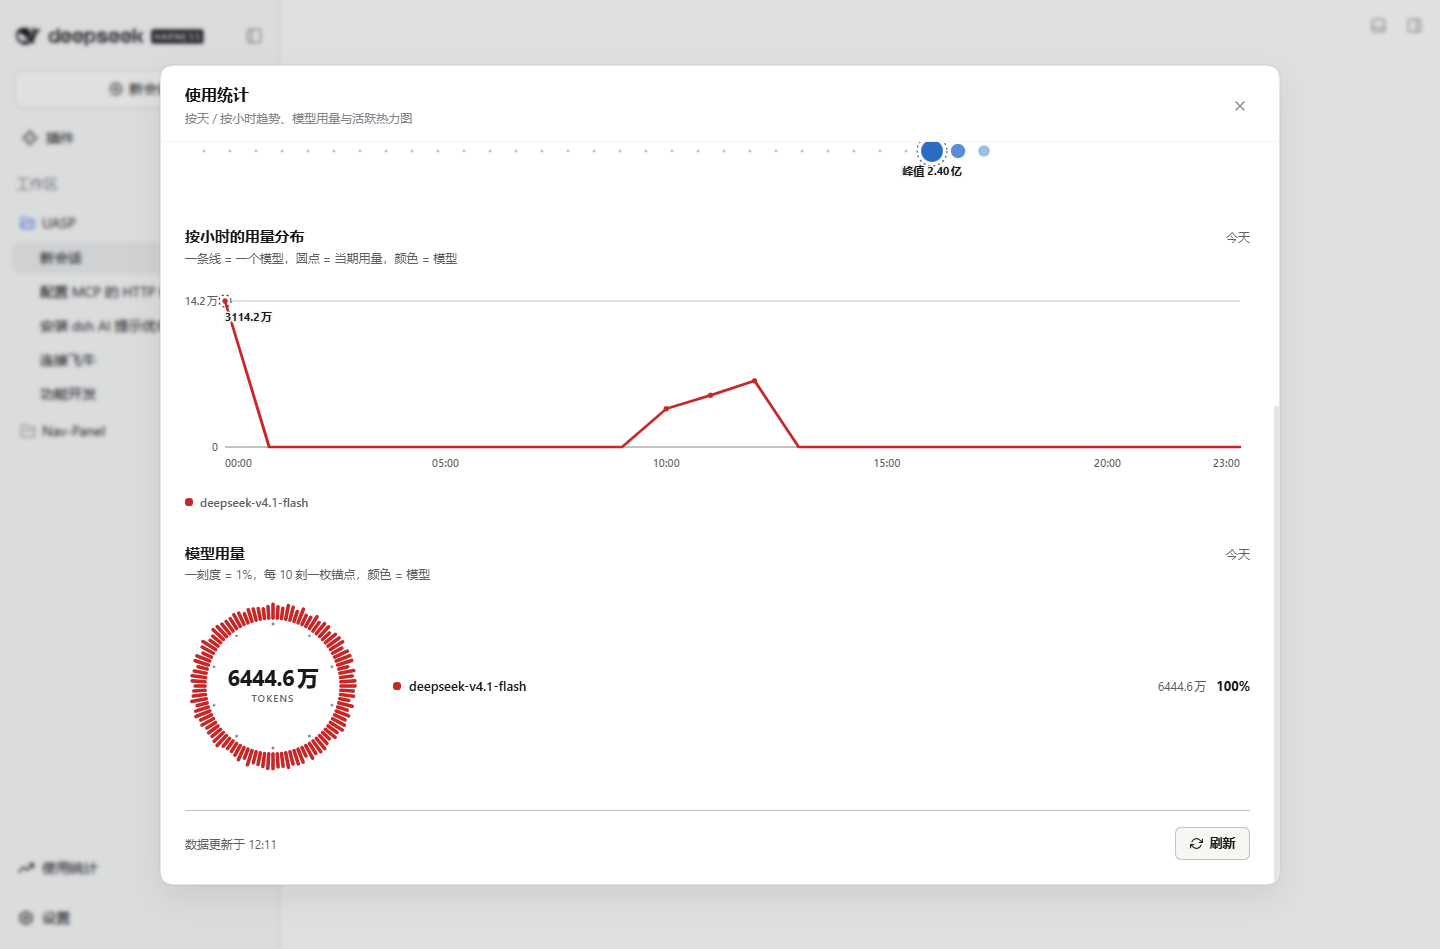
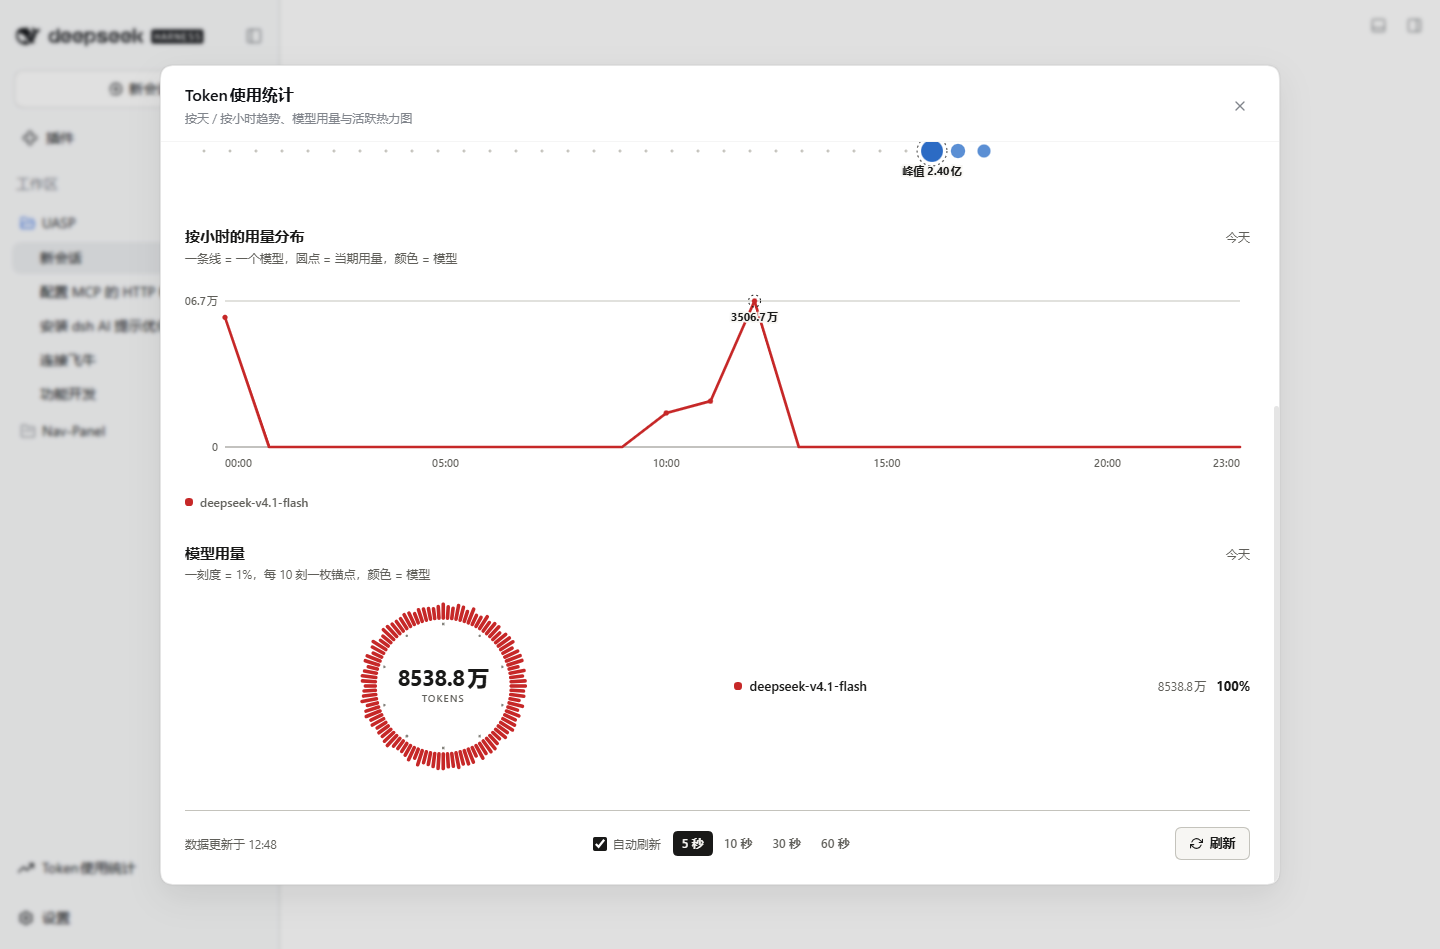
feat: 自动刷新、饼图明细各半、入口对齐用户菜单并改名

diff --git a/lib/client.js b/lib/client.js
@@ -1,4 +1,4 @@
-// dsh-token-panel —— 使用统计(客户端)
+// dsh-token-panel —— Token使用统计(客户端)
 // 排版：固定 px 字阶、WCAG 对比度达标、4 的倍数间距阶梯
 // 图表：日历点阵 / 发丝折线 / 刻度环，配色与排版自研
 // 关键：按实测容器宽度 1:1 出图，不做 viewBox 缩放（缩放会让小字号变成看不见）
@@ -320,10 +320,10 @@ body[data-ds-dark-theme] .ust-tab.active { background: var(--ink); color: #19191
 .ust-legend-dot { width: 8px; height: 8px; border-radius: 50%; flex: none; }
 
 /* ── 环形图 ─────────────────────────────────────────────── */
-/* 圆环与模型列表水平并排；容器过窄时自动换行回上下堆叠 */
+/* 圆环与模型明细各占一半；容器过窄时自动换行回上下堆叠 */
 .ust-donut-wrap { display: flex; flex-direction: row; flex-wrap: wrap; align-items: center; gap: 24px 32px; }
-.ust-donut-wrap > .ust-donut { margin: 0; }
-.ust-donut-wrap > .ust-models { flex: 1 1 320px; min-width: 240px; }
+.ust-donut-wrap > .ust-donut { flex: 1 1 0; margin: 0 auto; }
+.ust-donut-wrap > .ust-models { flex: 1 1 0; min-width: 0; }
 .ust-donut { position: relative; width: 168px; height: 168px; margin: 4px auto 0; flex: none; }
 .ust-donut svg { display: block; width: 100%; height: 100%; overflow: visible; }
 .ust-donut-center {
@@ -341,6 +341,12 @@ body[data-ds-dark-theme] .ust-tab.active { background: var(--ink); color: #19191
 
 /* ── 底部：页脚 + 按钮 ─────────────────────────────────── */
 .ust-footer {
+/* 底部自动刷新控件 */
+.ust-auto { display: flex; align-items: center; gap: 12px; flex-wrap: wrap; }
+.ust-autoToggle { display: inline-flex; align-items: center; gap: 6px; font-size: 12px; color: var(--muted); cursor: pointer; user-select: none; }
+.ust-autoCheck { width: 14px; height: 14px; margin: 0; accent-color: var(--ink); cursor: pointer; }
+.ust-autoSeg { display: flex; align-items: center; gap: 2px; }
+.ust-autoSeg .ust-tab { font-size: 12px; }
 	display: flex; align-items: center; justify-content: space-between; gap: 16px;
 	margin-top: 4px; padding-top: 16px; border-top: 1px solid var(--rule);
 }
@@ -428,8 +434,8 @@ body[data-ds-dark-theme] .ust-date::-webkit-calendar-picker-indicator { filter: 
 
 		// ---------- 弹窗样式（对齐 dsh-token-usage 的展示方式） ----------
 		const MODAL_CSS = `
-/* 侧边栏入口：对齐左下角「设置」菜单行的形态（整行 260x42 / 圆角 12 / 14px / gap 8） */
-.ust-fab{position:relative;display:flex;margin:4px -2px}
+/* 侧边栏入口：与左下角用户菜单同宽同高（铺满 footerActions 行） */
+.ust-fab{position:relative;display:flex;flex:1 1 100%;min-width:0;margin:4px -2px}
 .ust-fabBtn{min-width:0;width:100%;height:42px;box-sizing:border-box;color:var(--dsw-alias-label-primary,#0f1115);cursor:pointer;background:transparent;border:0;border-radius:12px;padding:0 10px 0 8px;font:inherit;font-size:14px;line-height:22px;display:flex;align-items:center;gap:8px;transition:color .15s ease,background-color .15s ease}
 .ust-fabBtn:hover,.ust-fabBtn:focus-visible{background:var(--dsw-alias-interactive-bg-hover,rgba(0,0,0,.05))}
 .ust-fabBtn--rail{width:42px;height:42px;padding:0;justify-content:center;margin:0 auto}
@@ -533,6 +539,8 @@ body[data-ds-dark-theme] .ust-date::-webkit-calendar-picker-indicator { filter: 
 		// 日历点阵：一格一天，点面积 = 当天用量（sqrt 换算，面积才与数值成正比）
 		// 只保留「每日」一种展示：一格一天
 		const WD = ["日", "一", "二", "三", "四", "五", "六"];
+		// 自动刷新可选的间隔（秒）
+		const AUTO_OPTIONS = [5, 10, 30, 60];
 
 		function Heatmap({ days, window: wnd }) {
 			const [boxRef, boxW] = useMeasure();
@@ -972,6 +980,9 @@ body[data-ds-dark-theme] .ust-date::-webkit-calendar-picker-indicator { filter: 
 			const [showCustom, setShowCustom] = react.useState(false);
 			const [from, setFrom] = react.useState("");
 			const [to, setTo] = react.useState("");
+			// 自动刷新：默认开启，默认 5 秒
+			const [autoRefresh, setAutoRefresh] = react.useState(true);
+			const [autoEvery, setAutoEvery] = react.useState(5);
 
 			const load = react.useCallback(async (force) => {
 				setLoading(true);
@@ -989,6 +1000,13 @@ body[data-ds-dark-theme] .ust-date::-webkit-calendar-picker-indicator { filter: 
 			}, []);
 
 			react.useEffect(() => { load(false); }, [load]);
+
+			// 自动刷新：定时重新拉取（不强制重扫，走服务端 SWR 缓存）
+			react.useEffect(() => {
+				if (!autoRefresh) return;
+				const id = setInterval(() => { load(false); }, Math.max(1, autoEvery) * 1000);
+				return () => clearInterval(id);
+			}, [autoRefresh, autoEvery, load]);
 
 			const days = (data && data.days) || [];
 			const hasData = days.length > 0;
@@ -1029,7 +1047,7 @@ body[data-ds-dark-theme] .ust-date::-webkit-calendar-picker-indicator { filter: 
 			return element("div", { className: "ust-root" },
 				element(SummaryMetrics, { summary: data.summary }),
 				element("div", { className: "ust-header" },
-					element("h1", { className: "ust-page-title" }, "使用统计"),
+					element("h1", { className: "ust-page-title" }, "Token使用统计"),
 					element("div", { className: "ust-rangebox" },
 						element("div", { className: "ust-tabs", role: "tablist" },
 							RANGES.map((r) => element("span", {
@@ -1078,6 +1096,24 @@ body[data-ds-dark-theme] .ust-date::-webkit-calendar-picker-indicator { filter: 
 					element("div", { className: "ust-meta" },
 						loading ? "正在重新扫描全部会话…" : (data.generatedAt ? "数据更新于 " + fmtClock(data.generatedAt) : ""),
 					),
+					element("div", { className: "ust-auto" },
+						element("label", { className: "ust-autoToggle", title: "开启后按所选间隔自动刷新数据" },
+							element("input", {
+								type: "checkbox",
+								className: "ust-autoCheck",
+								checked: autoRefresh,
+								onChange: (e) => setAutoRefresh(e.target.checked),
+							}),
+							element("span", null, "自动刷新"),
+						),
+						autoRefresh ? element("div", { className: "ust-autoSeg", role: "tablist", "aria-label": "自动刷新间隔" },
+							AUTO_OPTIONS.map((sec) => element("span", {
+								key: sec, role: "tab", "aria-selected": autoEvery === sec,
+								className: "ust-tab" + (autoEvery === sec ? " active" : ""),
+								onClick: () => setAutoEvery(sec),
+							}, sec + " 秒")),
+						) : null,
+					),
 					element("button", {
 						className: "ust-btn", disabled: loading, onClick: () => load(true),
 						title: "重新扫描本机全部会话记录",
@@ -1104,10 +1140,10 @@ body[data-ds-dark-theme] .ust-date::-webkit-calendar-picker-indicator { filter: 
 			}, [close]);
 			return element("div", { className: "ust-overlay" + (closing ? " is-closing" : "") },
 				element("div", { className: "ust-mask", "aria-hidden": "true", onClick: close }),
-				element("div", { className: "ust-panel", role: "dialog", "aria-modal": "true", "aria-label": "使用统计" },
+				element("div", { className: "ust-panel", role: "dialog", "aria-modal": "true", "aria-label": "Token使用统计" },
 					element("div", { className: "ust-panelHead" },
 						element("div", { className: "ust-panelTitleBox" },
-							element("h2", { className: "ust-panelTitle" }, "使用统计"),
+							element("h2", { className: "ust-panelTitle" }, "Token使用统计"),
 							element("p", { className: "ust-panelSub" }, "按天 / 按小时趋势、模型用量与活跃热力图"),
 						),
 						element("button", { type: "button", className: "ust-closeBtn", "aria-label": "关闭", title: "关闭", onClick: close }, element(IconClose)),
@@ -1127,12 +1163,12 @@ body[data-ds-dark-theme] .ust-date::-webkit-calendar-picker-indicator { filter: 
 					className: "ust-fabBtn" + (wide ? "" : " ust-fabBtn--rail"),
 					"aria-haspopup": "dialog",
 					"aria-expanded": open,
-					"aria-label": "使用统计",
-					title: "使用统计",
+					"aria-label": "Token使用统计",
+					title: "Token使用统计",
 					onClick: () => setOpen(true),
 				},
 					element("span", { className: "ust-fabIco" }, element(IconTrend)),
-					wide ? element("span", { className: "ust-fabLabel" }, "使用统计") : null,
+					wide ? element("span", { className: "ust-fabLabel" }, "Token使用统计") : null,
 				),
 				open ? element(UsageStatsModal, { onClose: () => setOpen(false) }) : null,
 			);

diff --git a/build/body.js b/build/body.js
@@ -1,4 +1,4 @@
-// dsh-token-panel —— 使用统计(客户端)
+// dsh-token-panel —— Token使用统计(客户端)
 // 排版：固定 px 字阶、WCAG 对比度达标、4 的倍数间距阶梯
 // 图表：日历点阵 / 发丝折线 / 刻度环，配色与排版自研
 // 关键：按实测容器宽度 1:1 出图，不做 viewBox 缩放（缩放会让小字号变成看不见）
@@ -151,8 +151,8 @@ window.__ModuleLoader__.load({
 
 		// ---------- 弹窗样式（对齐 dsh-token-usage 的展示方式） ----------
 		const MODAL_CSS = `
-/* 侧边栏入口：对齐左下角「设置」菜单行的形态（整行 260x42 / 圆角 12 / 14px / gap 8） */
-.ust-fab{position:relative;display:flex;margin:4px -2px}
+/* 侧边栏入口：与左下角用户菜单同宽同高（铺满 footerActions 行） */
+.ust-fab{position:relative;display:flex;flex:1 1 100%;min-width:0;margin:4px -2px}
 .ust-fabBtn{min-width:0;width:100%;height:42px;box-sizing:border-box;color:var(--dsw-alias-label-primary,#0f1115);cursor:pointer;background:transparent;border:0;border-radius:12px;padding:0 10px 0 8px;font:inherit;font-size:14px;line-height:22px;display:flex;align-items:center;gap:8px;transition:color .15s ease,background-color .15s ease}
 .ust-fabBtn:hover,.ust-fabBtn:focus-visible{background:var(--dsw-alias-interactive-bg-hover,rgba(0,0,0,.05))}
 .ust-fabBtn--rail{width:42px;height:42px;padding:0;justify-content:center;margin:0 auto}
@@ -256,6 +256,8 @@ window.__ModuleLoader__.load({
 		// 日历点阵：一格一天，点面积 = 当天用量（sqrt 换算，面积才与数值成正比）
 		// 只保留「每日」一种展示：一格一天
 		const WD = ["日", "一", "二", "三", "四", "五", "六"];
+		// 自动刷新可选的间隔（秒）
+		const AUTO_OPTIONS = [5, 10, 30, 60];
 
 		function Heatmap({ days, window: wnd }) {
 			const [boxRef, boxW] = useMeasure();
@@ -695,6 +697,9 @@ window.__ModuleLoader__.load({
 			const [showCustom, setShowCustom] = react.useState(false);
 			const [from, setFrom] = react.useState("");
 			const [to, setTo] = react.useState("");
+			// 自动刷新：默认开启，默认 5 秒
+			const [autoRefresh, setAutoRefresh] = react.useState(true);
+			const [autoEvery, setAutoEvery] = react.useState(5);
 
 			const load = react.useCallback(async (force) => {
 				setLoading(true);
@@ -712,6 +717,13 @@ window.__ModuleLoader__.load({
 			}, []);
 
 			react.useEffect(() => { load(false); }, [load]);
+
+			// 自动刷新：定时重新拉取（不强制重扫，走服务端 SWR 缓存）
+			react.useEffect(() => {
+				if (!autoRefresh) return;
+				const id = setInterval(() => { load(false); }, Math.max(1, autoEvery) * 1000);
+				return () => clearInterval(id);
+			}, [autoRefresh, autoEvery, load]);
 
 			const days = (data && data.days) || [];
 			const hasData = days.length > 0;
@@ -752,7 +764,7 @@ window.__ModuleLoader__.load({
 			return element("div", { className: "ust-root" },
 				element(SummaryMetrics, { summary: data.summary }),
 				element("div", { className: "ust-header" },
-					element("h1", { className: "ust-page-title" }, "使用统计"),
+					element("h1", { className: "ust-page-title" }, "Token使用统计"),
 					element("div", { className: "ust-rangebox" },
 						element("div", { className: "ust-tabs", role: "tablist" },
 							RANGES.map((r) => element("span", {
@@ -801,6 +813,24 @@ window.__ModuleLoader__.load({
 					element("div", { className: "ust-meta" },
 						loading ? "正在重新扫描全部会话…" : (data.generatedAt ? "数据更新于 " + fmtClock(data.generatedAt) : ""),
 					),
+					element("div", { className: "ust-auto" },
+						element("label", { className: "ust-autoToggle", title: "开启后按所选间隔自动刷新数据" },
+							element("input", {
+								type: "checkbox",
+								className: "ust-autoCheck",
+								checked: autoRefresh,
+								onChange: (e) => setAutoRefresh(e.target.checked),
+							}),
+							element("span", null, "自动刷新"),
+						),
+						autoRefresh ? element("div", { className: "ust-autoSeg", role: "tablist", "aria-label": "自动刷新间隔" },
+							AUTO_OPTIONS.map((sec) => element("span", {
+								key: sec, role: "tab", "aria-selected": autoEvery === sec,
+								className: "ust-tab" + (autoEvery === sec ? " active" : ""),
+								onClick: () => setAutoEvery(sec),
+							}, sec + " 秒")),
+						) : null,
+					),
 					element("button", {
 						className: "ust-btn", disabled: loading, onClick: () => load(true),
 						title: "重新扫描本机全部会话记录",
@@ -827,10 +857,10 @@ window.__ModuleLoader__.load({
 			}, [close]);
 			return element("div", { className: "ust-overlay" + (closing ? " is-closing" : "") },
 				element("div", { className: "ust-mask", "aria-hidden": "true", onClick: close }),
-				element("div", { className: "ust-panel", role: "dialog", "aria-modal": "true", "aria-label": "使用统计" },
+				element("div", { className: "ust-panel", role: "dialog", "aria-modal": "true", "aria-label": "Token使用统计" },
 					element("div", { className: "ust-panelHead" },
 						element("div", { className: "ust-panelTitleBox" },
-							element("h2", { className: "ust-panelTitle" }, "使用统计"),
+							element("h2", { className: "ust-panelTitle" }, "Token使用统计"),
 							element("p", { className: "ust-panelSub" }, "按天 / 按小时趋势、模型用量与活跃热力图"),
 						),
 						element("button", { type: "button", className: "ust-closeBtn", "aria-label": "关闭", title: "关闭", onClick: close }, element(IconClose)),
@@ -850,12 +880,12 @@ window.__ModuleLoader__.load({
 					className: "ust-fabBtn" + (wide ? "" : " ust-fabBtn--rail"),
 					"aria-haspopup": "dialog",
 					"aria-expanded": open,
-					"aria-label": "使用统计",
-					title: "使用统计",
+					"aria-label": "Token使用统计",
+					title: "Token使用统计",
 					onClick: () => setOpen(true),
 				},
 					element("span", { className: "ust-fabIco" }, element(IconTrend)),
-					wide ? element("span", { className: "ust-fabLabel" }, "使用统计") : null,
+					wide ? element("span", { className: "ust-fabLabel" }, "Token使用统计") : null,
 				),
 				open ? element(UsageStatsModal, { onClose: () => setOpen(false) }) : null,
 			);

diff --git a/build/panel.css b/build/panel.css
@@ -171,10 +171,10 @@ body[data-ds-dark-theme] .ust-tab.active { background: var(--ink); color: #19191
 .ust-legend-dot { width: 8px; height: 8px; border-radius: 50%; flex: none; }
 
 /* ── 环形图 ─────────────────────────────────────────────── */
-/* 圆环与模型列表水平并排；容器过窄时自动换行回上下堆叠 */
+/* 圆环与模型明细各占一半；容器过窄时自动换行回上下堆叠 */
 .ust-donut-wrap { display: flex; flex-direction: row; flex-wrap: wrap; align-items: center; gap: 24px 32px; }
-.ust-donut-wrap > .ust-donut { margin: 0; }
-.ust-donut-wrap > .ust-models { flex: 1 1 320px; min-width: 240px; }
+.ust-donut-wrap > .ust-donut { flex: 1 1 0; margin: 0 auto; }
+.ust-donut-wrap > .ust-models { flex: 1 1 0; min-width: 0; }
 .ust-donut { position: relative; width: 168px; height: 168px; margin: 4px auto 0; flex: none; }
 .ust-donut svg { display: block; width: 100%; height: 100%; overflow: visible; }
 .ust-donut-center {
@@ -192,6 +192,12 @@ body[data-ds-dark-theme] .ust-tab.active { background: var(--ink); color: #19191
 
 /* ── 底部：页脚 + 按钮 ─────────────────────────────────── */
 .ust-footer {
+/* 底部自动刷新控件 */
+.ust-auto { display: flex; align-items: center; gap: 12px; flex-wrap: wrap; }
+.ust-autoToggle { display: inline-flex; align-items: center; gap: 6px; font-size: 12px; color: var(--muted); cursor: pointer; user-select: none; }
+.ust-autoCheck { width: 14px; height: 14px; margin: 0; accent-color: var(--ink); cursor: pointer; }
+.ust-autoSeg { display: flex; align-items: center; gap: 2px; }
+.ust-autoSeg .ust-tab { font-size: 12px; }
 	display: flex; align-items: center; justify-content: space-between; gap: 16px;
 	margin-top: 4px; padding-top: 16px; border-top: 1px solid var(--rule);
 }
